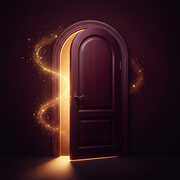
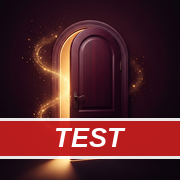
Add files via upload

Changed region(s): [[0.0, 0.6389, 1.0, 0.8889]]

diff --git a/sw.js b/sw.js
@@ -1,5 +1,5 @@
 /* Offline-Speicher: Seite, Geschichten und Bilder werden beim ersten Besuch abgelegt. */
-const VERSION = "v1795080588";
+const VERSION = "v1795181093";
 const KERN = ["./", "index.html", "manifest.json", "icon-192.png", "icon-512.png", "apple-touch-icon.png", "data.js", "er.js", "story-day1.js", "story-day2.js", "story-day3.js", "story-day4.js", "story-day5.js", "story-day6.js", "story-day7.js", "story-day8.js", "story-day9.js", "story-day10.js", "story-day11.js", "story-day12.js", "story-day13.js", "story-day14.js", "story-day15.js", "story-day16.js", "story-day17.js", "story-day18.js", "story-day19.js", "story-day20.js", "story-day21.js", "story-day22.js", "story-day23.js", "story-day24.js"];
 const BILDER = ["bilder/finale.jpg", "bilder/karte-01.jpg", "bilder/karte-02.jpg", "bilder/karte-03.jpg", "bilder/karte-04.jpg", "bilder/karte-05.jpg", "bilder/karte-06.jpg", "bilder/karte-07.jpg", "bilder/karte-08.jpg", "bilder/karte-09.jpg", "bilder/karte-10.jpg", "bilder/karte-11.jpg", "bilder/karte-12.jpg", "bilder/karte-13.jpg", "bilder/karte-14.jpg", "bilder/karte-15.jpg", "bilder/karte-16.jpg", "bilder/karte-17.jpg", "bilder/karte-18.jpg", "bilder/karte-19.jpg", "bilder/karte-20.jpg", "bilder/karte-21.jpg", "bilder/karte-22.jpg", "bilder/karte-23.jpg", "bilder/karte-24.jpg", "bilder/landing.jpg", "bilder/pix-lock-01.png", "bilder/pix-lock-02.png", "bilder/pix-lock-03.png", "bilder/pix-lock-04.png", "bilder/pix-lock-05.png", "bilder/pix-lock-06.png", "bilder/pix-lock-07.png", "bilder/pix-lock-08.png", "bilder/pix-lock-09.png", "bilder/pix-lock-10.png", "bilder/pix-lock-11.png", "bilder/pix-lock-12.png", "bilder/pix-lock-13.png", "bilder/pix-lock-14.png", "bilder/pix-lock-15.png", "bilder/pix-lock-16.png", "bilder/pix-lock-17.png", "bilder/pix-lock-18.png", "bilder/pix-lock-19.png", "bilder/pix-lock-20.png", "bilder/pix-lock-21.png", "bilder/pix-lock-22.png", "bilder/pix-lock-23.png", "bilder/pix-lock-24.png", "bilder/pix-mid-01.png", "bilder/pix-mid-02.png", "bilder/pix-mid-03.png", "bilder/pix-mid-04.png", "bilder/pix-mid-05.png", "bilder/pix-mid-06.png", "bilder/pix-mid-07.png", "bilder/pix-mid-08.png", "bilder/pix-mid-09.png", "bilder/pix-mid-10.png", "bilder/pix-mid-11.png", "bilder/pix-mid-12.png", "bilder/pix-mid-13.png", "bilder/pix-mid-14.png", "bilder/pix-mid-15.png", "bilder/pix-mid-16.png", "bilder/pix-mid-17.png", "bilder/pix-mid-18.png", "bilder/pix-mid-19.png", "bilder/pix-mid-20.png", "bilder/pix-mid-21.png", "bilder/pix-mid-22.png", "bilder/pix-mid-23.png", "bilder/pix-mid-24.png"];
 self.addEventListener("install", function (e) {

diff --git a/index.html b/index.html
@@ -13,7 +13,7 @@
     <meta name="theme-color" id="themeColorMeta" content="#060608">
     <meta name="mobile-web-app-capable" content="yes">
     <meta name="apple-mobile-web-app-capable" content="yes">
-    <meta name="apple-mobile-web-app-title" content="Dezember">
+    <meta name="apple-mobile-web-app-title" content="Dez TEST">
     <meta name="apple-mobile-web-app-status-bar-style" content="black">
     <style>
         /* Standard-Farben für Landing-Page: Edles Schwarz & dunkles Rot */
